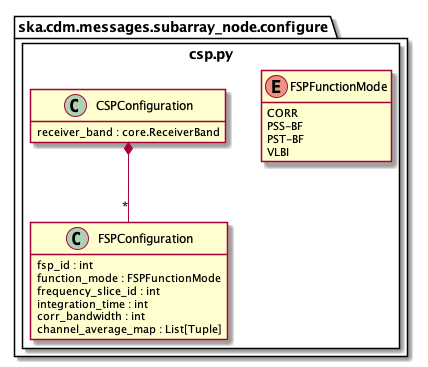
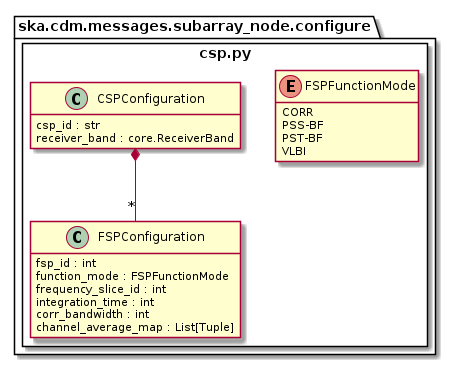
Docs update: add csp_id as csp configuration id

Changed region(s): [[0.0304, 0.0301, 0.972, 0.9945]]

diff --git a/docs/src/developer/subarraynode/subarraynode.rst b/docs/src/developer/subarraynode/subarraynode.rst
@@ -37,6 +37,7 @@ modules. The ``configure`` package contains four modules:
 
 * __init__.py
 * `core.py`_
+* `tmc.py`_
 * `csp.py`_
 * `sdp.py`_
 
@@ -91,6 +92,28 @@ are:
   }
 
 
+tmc.py
+------
+
+.. figure:: tmc.png
+   :align: center
+   :alt: tmc.py object model
+
+   tmc.py object model
+
+The ``tmc.py`` module models TMC configuration JSON elements. Below is an
+example JSON command argument that this code can model.
+
+.. code::
+
+  # JSON modelled specifically by tmc.py
+  {
+    "tmc": {
+      "scanDuration": 10.0,
+    }
+  }
+
+
 csp.py
 ------
 
@@ -109,6 +132,7 @@ of a full CDM JSON object, the elements this maps to are:
   {
     ...
     "csp": {
+      "cspID": "sbi-mvp01-20200325-00001-science_A",
       "frequencyBand": "1",
       "fsp": [
         {
